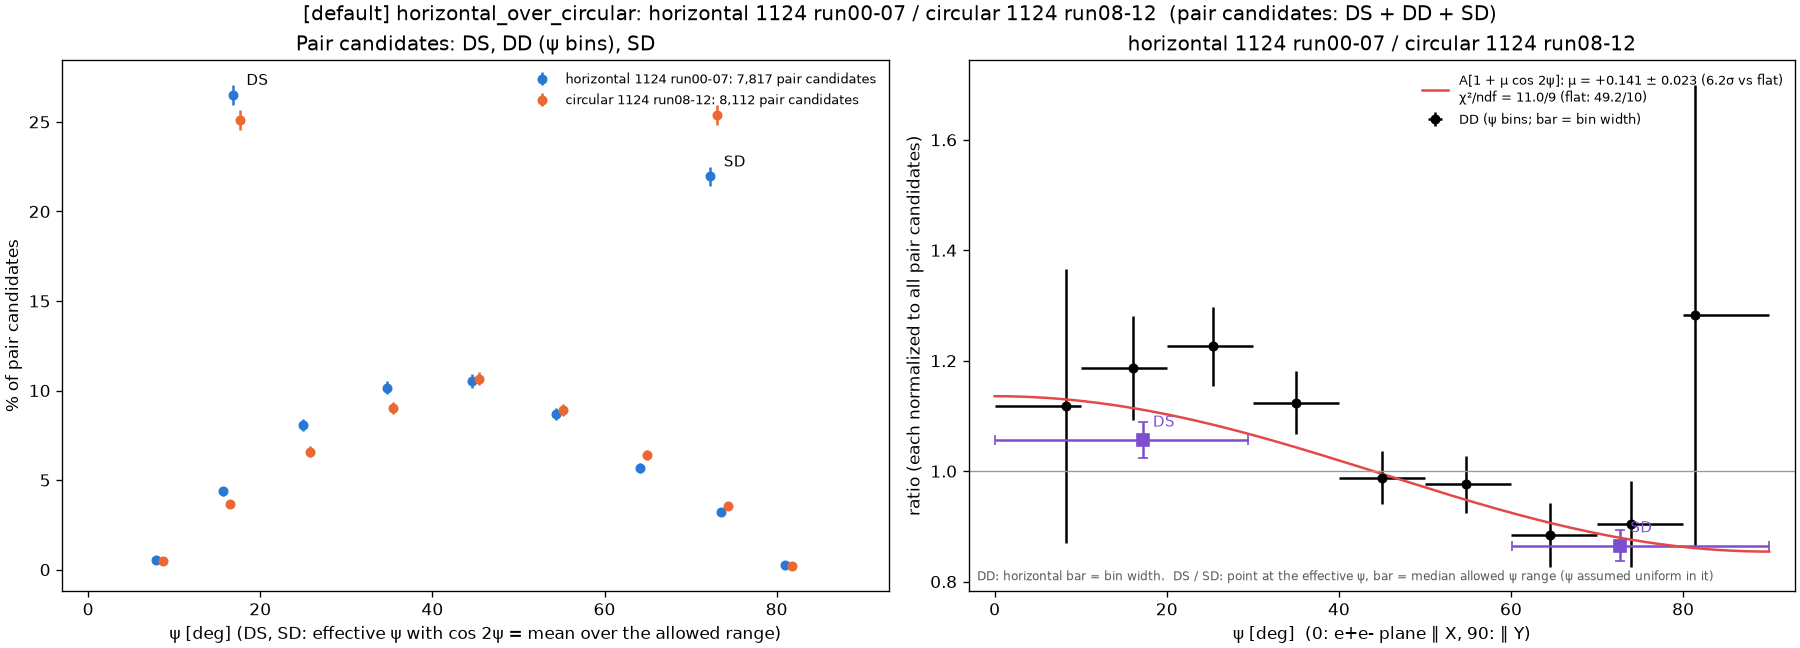
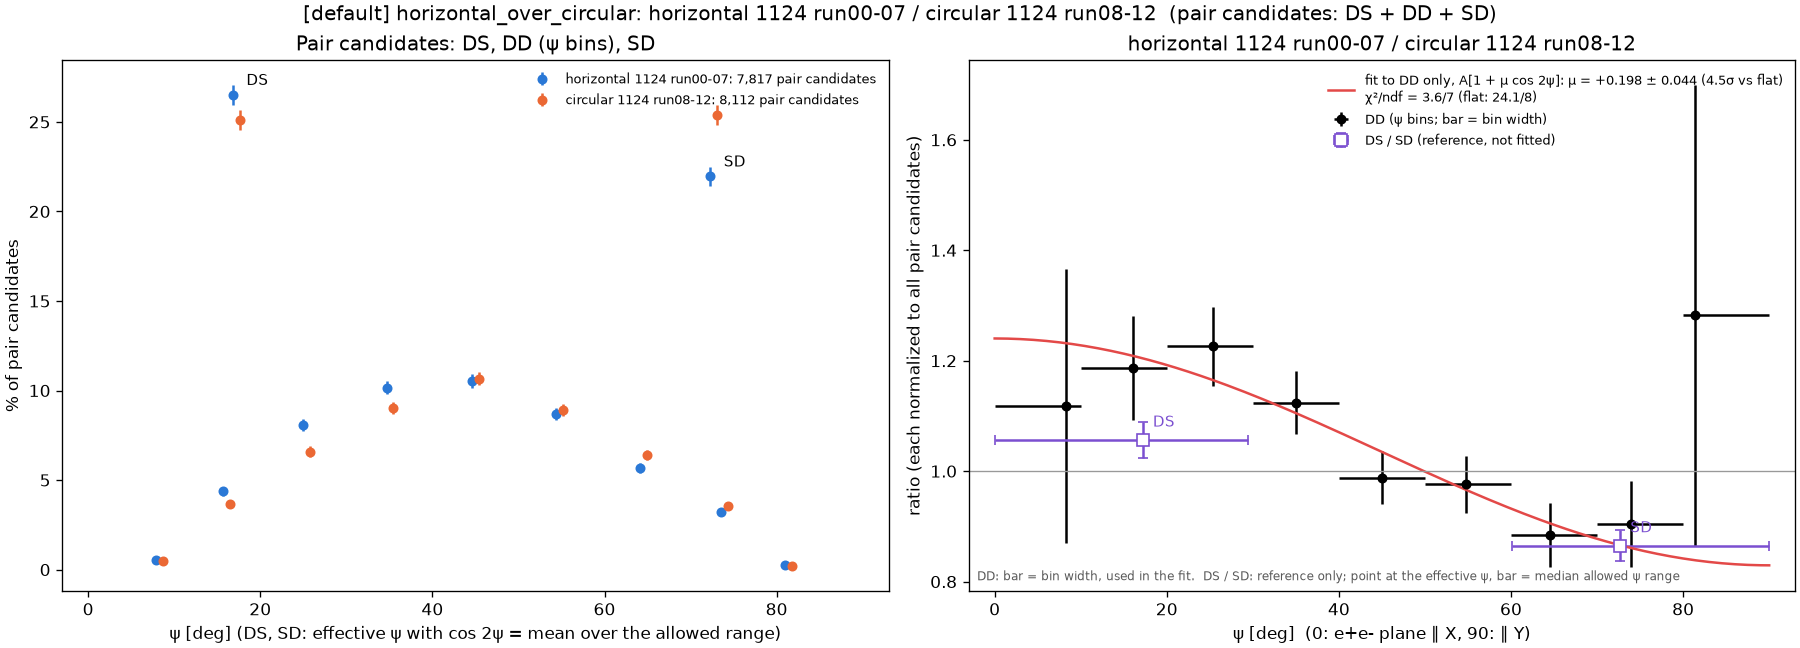
pair_analysis: モジュレーションカーブの fit を DD の点だけにし、DS・SD は参照点にする
pair_curve の主な fit を DD の ψ のビンだけにした。DS・SD は fit に使わない参照点として描く。
DS・SD も入れた11点の fit は、DS・SD が DD より小さいモジュレーションを示して合わないので、
参考として pair_curve.json（fit_all_points_reference）と summary にだけ残す。
README の図と数値を更新し、DS・SD を fit に使わない理由と未解決の点を書いた。

diff --git a/ETCC_cal/pair_analysis/pipeline/stage4_modulation.py b/ETCC_cal/pair_analysis/pipeline/stage4_modulation.py
@@ -4,9 +4,10 @@
   - Q = (N_X − N_Y)/(N_X + N_Y)、N_X = DS + DD(ψ < 45°)、N_Y = SD + DD(ψ >= 45°)。サンプルごとに出して差 ΔQ を取る。
   - DD の ψ（0〜90°）のヒストグラムを各サンプルで規格化して割り、A [1 + μ cos 2ψ] で fit する。
     折り返しているので、偏光が X・Y に対して φ0 傾いていると見える μ は μ_true · cos 2φ0（45° では 0）。
-  - DS・DD・SD をまとめたカーブ: DS（ψ ≈ 0° 側）、DD の ψ の各ビン、SD（ψ ≈ 90° 側）の 11 点を、対生成の候補の総数で
-    規格化して割る。DS・SD は ψ が範囲 [psi_lo, psi_hi] でしか決まらないので、範囲内で ψ が一様と仮定して
-    cos 2ψ を平均した c_k を点ごとに出し、A [1 + μ c_k] で fit する（DD のビンは c_k = ビン内の cos 2ψ の平均）。
+  - DS・DD・SD の図（pair_curve）: DS（ψ ≈ 0° 側）、DD の ψ の各ビン、SD（ψ ≈ 90° 側）の 11 点を、対生成の候補の総数で
+    規格化して割る。fit は DD の点だけで A [1 + μ c_k]（c_k = ビン内の cos 2ψ の平均）。DS・SD は参照点で fit に使わない。
+    DS・SD は ψ が範囲 [psi_lo, psi_hi] でしか決まらない。範囲内で ψ が一様と仮定して 11 点全部を fit した値も、
+    参考として JSON（fit_all_points_reference）と summary に残す（DS・SD が DD より小さいモジュレーションを示し、合わない）。
   - 有意度: 平らな線との Δχ²（1自由度）と ΔQ / 誤差。
 1本の飛跡（analysis.single_track、SS のみ）:
   - θ >= θmin ごとに φ（0〜360°）のヒストグラムの比を A [1 + μ cos 2(φ − φ0)] で fit（Δχ² は2自由度）。
@@ -151,7 +152,10 @@ def pair_curve_result(data, labels, bins):
     total = counts[0] + counts[1]
     c_k = cos_sums / np.maximum(total, 1)  # 2つのサンプルを合わせた点ごとの cos 2ψ の平均
     ratio, error, ok = normalized_ratio(counts[0], counts[1])
-    fit = fit_cos2_mean(c_k[ok], ratio[ok], error[ok])
+    dd = np.zeros(bins + 2, bool)
+    dd[1:bins + 1] = True
+    fit = fit_cos2_mean(c_k[ok & dd], ratio[ok & dd], error[ok & dd])          # 主: DD の点だけ
+    fit_all = fit_cos2_mean(c_k[ok], ratio[ok], error[ok])                  # 参考: DS・SD も入れた 11 点
     psi_eff = np.degrees(0.5 * np.arccos(np.clip(c_k, -1, 1)))  # cos 2ψ_eff = c_k となる ψ（図の横軸）
     spans = {}
     for k, name in ((0, "DS"), (bins + 1, "SD")):
@@ -159,7 +163,7 @@ def pair_curve_result(data, labels, bins):
         spans[name] = [float(np.median(both[:, 0])), float(np.median(both[:, 1]))]
     result = {"labels": labels, "points": names, "counts": [c.tolist() for c in counts], "mean_cos2": c_k.tolist(),
               "psi_effective_deg": psi_eff.tolist(), "ratio": ratio.tolist(), "ratio_err": error.tolist(),
-              "median_psi_range_deg": spans, "fit": fit}
+              "median_psi_range_deg": spans, "fit": fit, "fit_all_points_reference": fit_all}
     return result, (psi_eff, counts, ratio, error, ok)
 
 
@@ -191,17 +195,17 @@ def plot_pair_curve(result, plot_data, title, target):
     for k, name in edge_points.items():
         lo, hi = result["median_psi_range_deg"][name]
         ax.errorbar([psi_eff[k]], [ratio[k]], yerr=[error[k]], xerr=[[psi_eff[k] - lo], [hi - psi_eff[k]]], fmt="s", ms=7,
-                    color="#7b4fd0", capsize=3)
+                    mfc="white", mec="#7b4fd0", ecolor="#7b4fd0", capsize=3, label="DS / SD (reference, not fitted)" if k == 0 else None)
         ax.annotate(name, (psi_eff[k], ratio[k]), textcoords="offset points", xytext=(6, 8), fontsize=9, color="#7b4fd0")
     xx = np.linspace(0, 90, 181)
     ax.plot(xx, fit["A"] * (1 + fit["mu"] * np.cos(2 * np.radians(xx))), color="#e34948",
-            label=f"A[1 + μ cos 2ψ]: μ = {fit['mu']:+.3f} ± {fit['mu_err']:.3f} ({fit['significance_sigma']:.1f}σ vs flat)\n"
+            label=f"fit to DD only, A[1 + μ cos 2ψ]: μ = {fit['mu']:+.3f} ± {fit['mu_err']:.3f} ({fit['significance_sigma']:.1f}σ vs flat)\n"
                   f"χ²/ndf = {fit['chi2']:.1f}/{fit['ndf']} (flat: {fit['chi2_flat']:.1f}/{fit['ndf_flat']})")
     ax.axhline(1, color="0.6", lw=0.8)
     ax.set(xlabel="ψ [deg]  (0: e+e- plane ∥ X, 90: ∥ Y)", ylabel="ratio (each normalized to all pair candidates)",
            title=f"{labels[0]} / {labels[1]}", xlim=(-3, 93))
     ax.legend(fontsize=8, frameon=False, loc="upper right")
-    ax.text(0.01, 0.02, "DD: horizontal bar = bin width.  DS / SD: point at the effective ψ, bar = median allowed ψ range (ψ assumed uniform in it)",
+    ax.text(0.01, 0.02, "DD: bar = bin width, used in the fit.  DS / SD: reference only; point at the effective ψ, bar = median allowed ψ range",
             transform=ax.transAxes, fontsize=7, color="0.35")
     fig.suptitle(title)
     fig.savefig(target, dpi=120)
@@ -338,8 +342,10 @@ def run(pipeline, cut_set_names=None):
                 (folder / "pair_curve.json").write_text(json.dumps(curve, indent=1) + "\n")
                 plot_pair_curve(curve, curve_plot, title + "  (pair candidates: DS + DD + SD)", folder / "pair_curve.png")
                 entry["pair"] = {"events": [a["N_X"] + a["N_Y"] for a in result["asymmetry"]],
-                                 "curve_mu": curve["fit"]["mu"], "curve_mu_err": curve["fit"]["mu_err"],
-                                 "curve_sigma": curve["fit"]["significance_sigma"],
+                                 "all_points_mu": curve["fit_all_points_reference"]["mu"],
+                                 "all_points_mu_err": curve["fit_all_points_reference"]["mu_err"],
+                                 "all_points_chi2": curve["fit_all_points_reference"]["chi2"],
+                                 "all_points_ndf": curve["fit_all_points_reference"]["ndf"],
                                  "Q": [a["Q"] for a in result["asymmetry"]], "delta_Q": result["delta_Q"],
                                  "dd_mu": result["dd_psi_fit"]["mu"], "dd_mu_err": result["dd_psi_fit"]["mu_err"],
                                  "dd_sigma": result["dd_psi_fit"]["significance_sigma"]}
@@ -370,7 +376,7 @@ def print_entry(cut_name, entry):
         p = entry["pair"]
         text += (f" pair ΔQ = {p['delta_Q']['value']:+.4f} ± {p['delta_Q']['err']:.4f} ({p['delta_Q']['significance_sigma']:.1f}σ),"
                  f" DD μ = {p['dd_mu']:+.3f} ± {p['dd_mu_err']:.3f} ({p['dd_sigma']:.1f}σ),"
-                 f" DS+DD+SD μ = {p['curve_mu']:+.3f} ± {p['curve_mu_err']:.3f} ({p['curve_sigma']:.1f}σ)")
+                 f" (reference DS+DD+SD μ = {p['all_points_mu']:+.3f}, χ²/ndf = {p['all_points_chi2']:.1f}/{p['all_points_ndf']})")
     if "single_track" in entry:
         s = entry["single_track"]
         text += f" | SS θ>={s['theta_min_deg']:g}: μ = {s['mu']:.3f} ± {s['mu_err']:.3f} at {s['phi0_deg']:.0f}° ({s['sigma']:.1f}σ)"
@@ -379,7 +385,7 @@ def print_entry(cut_name, entry):
 
 def summary_markdown(cut_name, cuts, summary):
     lines = [f"# Modulation summary: {cut_name}", "", "```json", json.dumps(cuts, indent=1), "```", "",
-             "| comparison | pair events | Q (num / den) | ΔQ | DS+DD+SD curve μ | DD-only μ | single-track μ, φ0 |", "|---|---|---|---|---|---|---|"]
+             "| comparison | pair events | Q (num / den) | ΔQ | DD μ (cos 2ψ) | reference: DS+DD+SD μ (χ²/ndf) | single-track μ, φ0 |", "|---|---|---|---|---|---|---|"]
     for e in summary:
         p, s = e.get("pair"), e.get("single_track")
         pair_cells = ["-"] * 5
@@ -387,10 +393,10 @@ def summary_markdown(cut_name, cuts, summary):
             d = p["delta_Q"]
             pair_cells = [f"{p['events'][0]:,} / {p['events'][1]:,}", f"{p['Q'][0]:+.3f} / {p['Q'][1]:+.3f}",
                           f"{d['value']:+.3f} ± {d['err']:.3f} ({d['significance_sigma']:.1f}σ)",
-                          f"{p['curve_mu']:+.3f} ± {p['curve_mu_err']:.3f} ({p['curve_sigma']:.1f}σ)",
-                          f"{p['dd_mu']:+.3f} ± {p['dd_mu_err']:.3f} ({p['dd_sigma']:.1f}σ)"]
+                          f"{p['dd_mu']:+.3f} ± {p['dd_mu_err']:.3f} ({p['dd_sigma']:.1f}σ)",
+                          f"{p['all_points_mu']:+.3f} ± {p['all_points_mu_err']:.3f} ({p['all_points_chi2']:.1f}/{p['all_points_ndf']})"]
         single_cell = (f"θ≥{s['theta_min_deg']:g}°: {s['mu']:.3f} ± {s['mu_err']:.3f}, {s['phi0_deg']:.0f}° ({s['sigma']:.1f}σ)"
                        if s else "-")
         lines.append(f"| {e['comparison']} ({e['numerator']} / {e['denominator']}) | " + " | ".join(pair_cells) + f" | {single_cell} |")
-    lines += ["", "σ: statistical only. Curve μ (DS + DD ψ bins + SD, ψ of DS/SD assumed uniform in its allowed range) and DD-only μ use Δχ² vs flat with 1 dof; single-track uses 2 dof (μ, φ0)."]
+    lines += ["", "σ: statistical only. DD μ: fit to DD ψ bins, Δχ² vs flat with 1 dof (main result). Reference DS+DD+SD μ assumes ψ of DS/SD uniform in its allowed range and does not fit well (DS/SD show smaller modulation). Single-track uses 2 dof (μ, φ0)."]
     return "\n".join(lines) + "\n"
